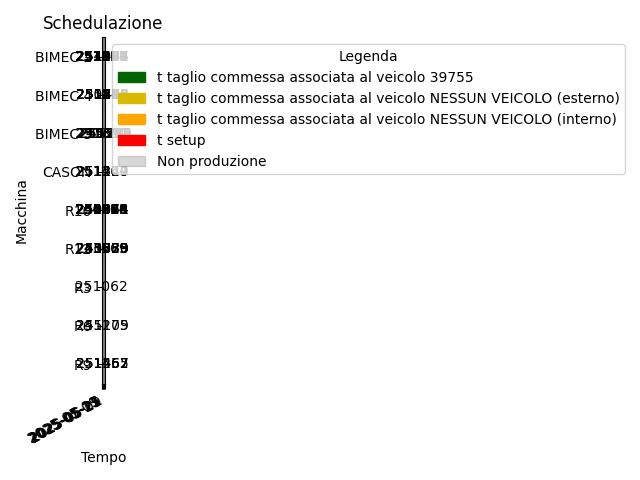
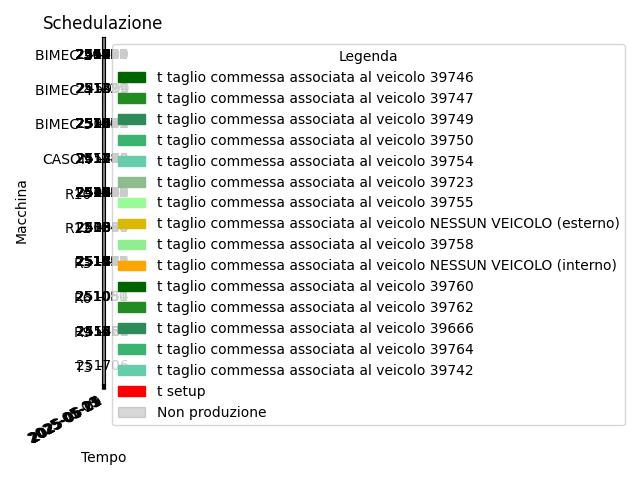
Da risolvere LS2, LS3 e capire gli esclusi da LS1

Changed region(s): [[0.0312, 0.1562, 0.9688, 0.875], [0.0625, 0.0938, 0.1875, 0.125]]

diff --git a/PS-VRP/solver.py b/PS-VRP/solver.py
@@ -158,7 +158,7 @@ def euristico_costruttivo(commesse_da_schedulare:list, lista_macchine:list, list
     for i in lista_macchine:
         Macchina.inizializza_lista_commesse(i)  # inizializzo ogni macchina con una commessa dummy
     inizio_schedulazione = lista_macchine[0].data_inizio_schedulazione  # è il primo lunedi disponibile che è uguale per tutte le macchine
-    lista_macchine_copy_eur = deepcopy(lista_macchine)
+    lista_macchine2 = []
 
     #Primo ciclo While: si assegnano per prime tutte le commesse tassative - alle macchine e al loro veicolo indicato (id_tassativo)
     while len(lista_commesse_tassative)>0 and len(lista_macchine)>0:
@@ -180,10 +180,17 @@ def euristico_costruttivo(commesse_da_schedulare:list, lista_macchine:list, list
             if schedulazione_eseguita:
                 break
         if not schedulazione_eseguita:
+            lista_macchine2.append(macchina)
             lista_macchine.remove(macchina)
 
     #Si ricostituisce la lista delle macchine    
-    lista_macchine = lista_macchine_copy_eur
+    lista_macchine = lista_macchine2
+    for m in lista_macchine:
+        print(f'MACCHINA {m}')
+        for c in m.lista_commesse_processate:
+            print(c.id_commessa)
+    lista_macchine2 = []
+
 
     #Sorting preliminare dell'input al secondo ciclo While
     commesse_da_schedulare.sort(key=lambda commessa:(-commessa.priorita_cliente,commessa.due_date.timestamp())) # ordino la lista sulla base della priorita e successivamente sulla due date
@@ -238,10 +245,13 @@ def euristico_costruttivo(commesse_da_schedulare:list, lista_macchine:list, list
                 commesse_da_schedulare.remove(commessa)
                 break
         if not schedulazione_eseguita:
+            lista_macchine2.append(macchina)
             lista_macchine.remove(macchina)
 
     #Si ricostituisce la lista delle macchine    
-    lista_macchine = lista_macchine_copy_eur
+    lista_macchine = lista_macchine2
+    lista_macchine2 = []
+
 
     commesse_da_schedulare = commesse_da_schedulare + commesse_scartate
 
@@ -270,10 +280,11 @@ def euristico_costruttivo(commesse_da_schedulare:list, lista_macchine:list, list
                 commesse_da_schedulare.remove(commessa)
                 break
         if not schedulazione_eseguita:
+            lista_macchine2.append(macchina)
             lista_macchine.remove(macchina)
 
     #Si ricostituisce la lista delle macchine per le ricerche locali
-    lista_macchine = lista_macchine_copy_eur
+    lista_macchine = lista_macchine2
 
     return schedulazione, f_obj, causa_fallimento, lista_macchine
 
@@ -318,29 +329,31 @@ def move_inter_macchina1(macchina1:Macchina,macchina2:Macchina,partenze:dict,con
     for i in range(1, len(schedula1)):
         for j in range(1, len(schedula2)):
             commessa = schedula1[i]
+            commessa2 = schedula2[j]
+            #if commessa.tassativita != "X" and commessa2.tassativita != "X"
             if commessa.compatibilita[macchina2.nome_macchina]==1:
                 posizione = j
                 ultima_lavorazione1=macchina1.ultima_lavorazione
                 ultima_lavorazione2=macchina2.ultima_lavorazione
                 if i+1<len(schedula1) and j+1<len(schedula2):
                     delta=-macchina1.calcolo_tempi_setup(schedula1[i-1],schedula1[i])-macchina1.calcolo_tempi_setup(schedula1[i],schedula1[i+1])+\
-                          -macchina2.calcolo_tempi_setup(schedula2[j-1],schedula2[j])+\
-                          +macchina1.calcolo_tempi_setup(schedula1[i-1],schedula1[i+1])+\
-                          +macchina2.calcolo_tempi_setup(schedula2[j-1],schedula1[i])+macchina2.calcolo_tempi_setup(schedula1[i],schedula2[j])
+                        -macchina2.calcolo_tempi_setup(schedula2[j-1],schedula2[j])+\
+                        +macchina1.calcolo_tempi_setup(schedula1[i-1],schedula1[i+1])+\
+                        +macchina2.calcolo_tempi_setup(schedula2[j-1],schedula1[i])+macchina2.calcolo_tempi_setup(schedula1[i],schedula2[j])
 
                 if i+1==len(schedula1) and j+1<len(schedula2):
                     delta=-macchina1.calcolo_tempi_setup(schedula1[i-1],schedula1[i])+\
-                          -macchina2.calcolo_tempi_setup(schedula2[j-1],schedula2[j])+\
-                          +macchina2.calcolo_tempi_setup(schedula2[j-1],schedula1[i])+macchina2.calcolo_tempi_setup(schedula1[i],schedula2[j])
+                        -macchina2.calcolo_tempi_setup(schedula2[j-1],schedula2[j])+\
+                        +macchina2.calcolo_tempi_setup(schedula2[j-1],schedula1[i])+macchina2.calcolo_tempi_setup(schedula1[i],schedula2[j])
 
                 if i+1==len(schedula1) and j+1==len(schedula2):
                     delta=-macchina1.calcolo_tempi_setup(schedula1[i-1],schedula1[i])+ \
-                          +macchina2.calcolo_tempi_setup(schedula2[j],schedula1[i])
+                        +macchina2.calcolo_tempi_setup(schedula2[j],schedula1[i])
 
                 if i+1<len(schedula1) and j+1==len(schedula2):
                     delta=-macchina1.calcolo_tempi_setup(schedula1[i-1],schedula1[i])-macchina1.calcolo_tempi_setup(schedula1[i],schedula1[i+1])+\
-                          +macchina1.calcolo_tempi_setup(schedula1[i-1],schedula1[i+1])+\
-                          +macchina2.calcolo_tempi_setup(schedula2[j],schedula1[i])
+                        +macchina1.calcolo_tempi_setup(schedula1[i-1],schedula1[i+1])+\
+                        +macchina2.calcolo_tempi_setup(schedula2[j],schedula1[i])
 
                 if delta<-eps:
                     s1=[]
@@ -362,10 +375,10 @@ def move_inter_macchina1(macchina1:Macchina,macchina2:Macchina,partenze:dict,con
                         return_schedulazione(schedula1[k],macchina1,tempo_setup_commessa,tempo_processamento_commessa,ultima_lavorazione1,inizio_schedulazione,s1)
                         if s1[-1]['fine_lavorazione'] < schedula1[k].release_date:
                             check1=False
-                        if schedula1[k].veicolo not in (None, "NESSUN VEICOLO (esterno)", "NESSUN VEICOLO (interno)") and s1[-1]['fine_lavorazione'] > partenze[schedula1[k].veicolo]:
-                            check1=False
-                        if schedula1[k].tassativita == "X":
-                            check3 = False
+                        veicolo_id = schedula1[k].veicolo
+                        if veicolo_id not in (None, "NESSUN VEICOLO (esterno)", "NESSUN VEICOLO (interno)") and veicolo_id in partenze: #i.e. se c'è un veicolo, ed è tra quelli su cui ottimizzare (e non assegnati)
+                            if s1[-1]['fine_lavorazione'] > partenze[veicolo_id]:
+                                check1=False
                         ultima_lavorazione1=ultima_lavorazione1+tempo_setup_commessa+tempo_processamento_commessa
                     check2 = True
                     check3 = True
@@ -375,10 +388,12 @@ def move_inter_macchina1(macchina1:Macchina,macchina2:Macchina,partenze:dict,con
                         return_schedulazione(schedula2[k], macchina2, tempo_setup_commessa,tempo_processamento_commessa, ultima_lavorazione2, inizio_schedulazione,s2)
                         if s2[-1]['fine_lavorazione'] < schedula2[k].release_date:
                             check2 = False
-                        if schedula2[k].veicolo not in (None, "NESSUN VEICOLO (esterno)", "NESSUN VEICOLO (interno)") and s2[-1]['fine_lavorazione'] > partenze[schedula2[k].veicolo]:
-                            check2 = False
-                        if schedula2[k].tassativita == "X":
-                            check3 = False
+                        veicolo_id = schedula2[k].veicolo
+                        if veicolo_id not in (None, "NESSUN VEICOLO (esterno)", "NESSUN VEICOLO (interno)") and veicolo_id in partenze:
+                            if s2[-1]['fine_lavorazione'] > partenze[veicolo_id]:
+                                check2 = False
+                        #if schedula2[k].tassativita == "X":
+                        #    check3 = False
                         ultima_lavorazione2=ultima_lavorazione2+tempo_setup_commessa+tempo_processamento_commessa
                     if check1 and check2 and check3: #faccio il check sulle date di partenza dei veicoli
                         improved=True #miglioramento trovato
